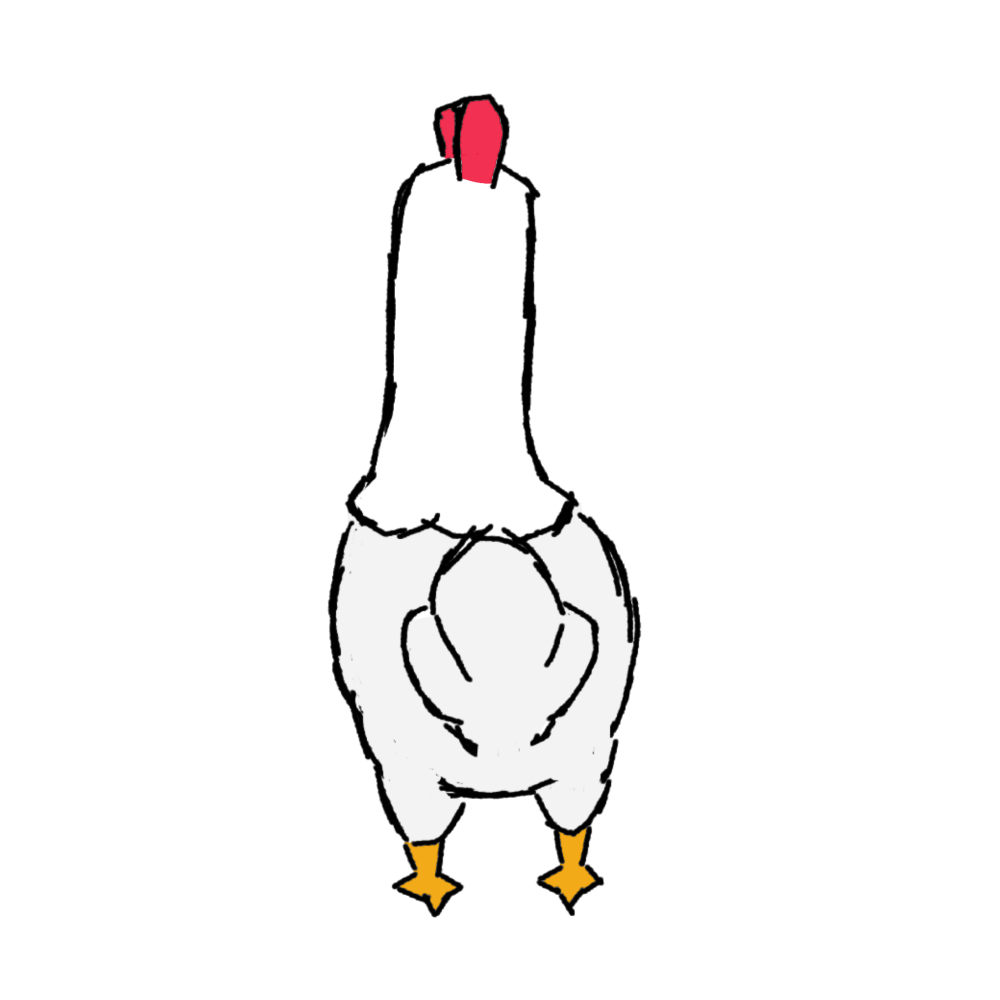
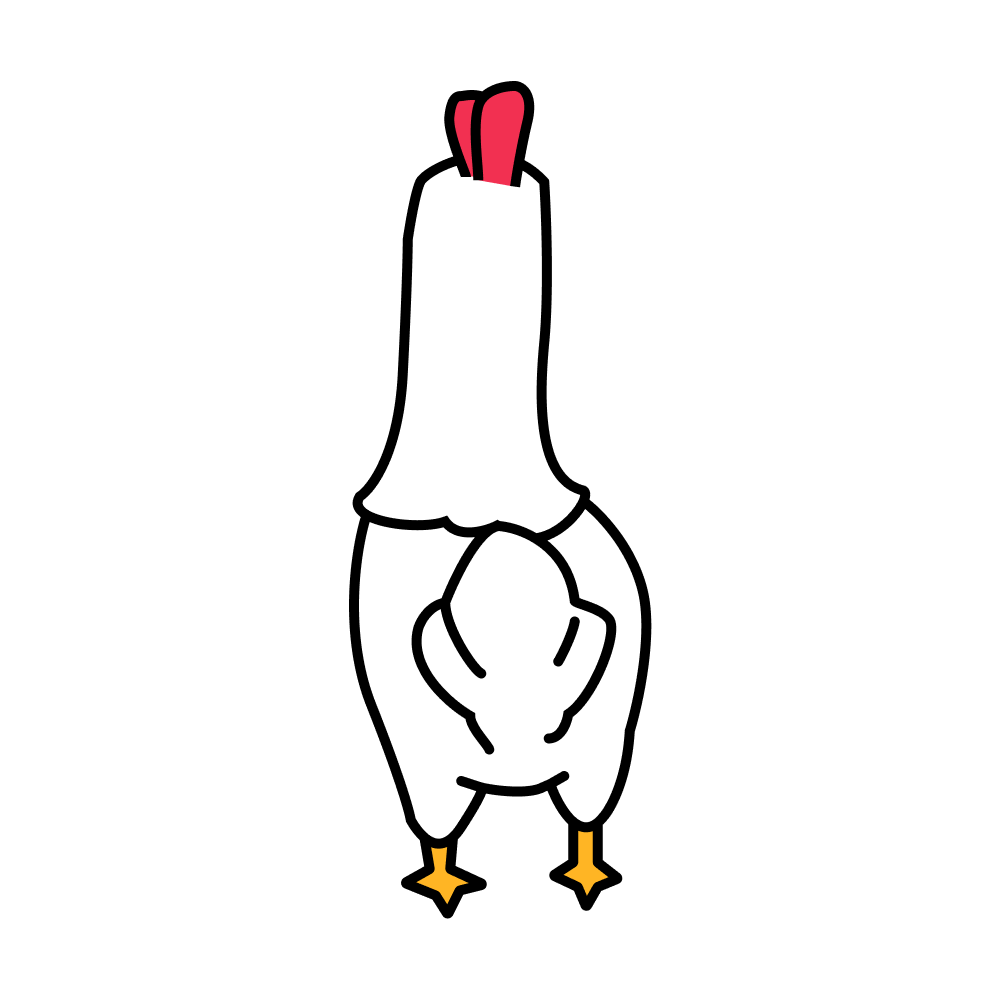
Chicken Sprites

Changed region(s): [[0.31, 0.062, 0.651, 0.93]]

diff --git a/src/lesson_kind/chickwalk.js b/src/lesson_kind/chickwalk.js
@@ -86,6 +86,8 @@ export const run = async (script, data, delay, w, sessionData) => {
     interpreter.addFunction('go_left', async (bID) => {
         let c = blockExist(data.lvlPos, currentPosX - 1, currentPosY)
 
+        data.chick.texture = data.chickFrames.L
+
         if (!c) {
             currentPosX--
             await moveChick(data.chick.x - data.cellSize, data.chick.y)
@@ -99,6 +101,8 @@ export const run = async (script, data, delay, w, sessionData) => {
     interpreter.addFunction('go_right', async (bID) => {
         let c = blockExist(data.lvlPos, currentPosX + 1, currentPosY)
         
+        data.chick.texture = data.chickFrames.R
+
         console.log(c)
         console.log(!c)
 
@@ -123,6 +127,8 @@ export const run = async (script, data, delay, w, sessionData) => {
     interpreter.addFunction('go_up', async (bID) => {
         let c = blockExist(data.lvlPos, currentPosX, currentPosY - 1)
 
+        data.chick.texture = data.chickFrames.T
+
         let block = w.getBlockById(bID)
 
         console.log(c)
@@ -139,6 +145,8 @@ export const run = async (script, data, delay, w, sessionData) => {
 
     interpreter.addFunction('go_down', async (bID) => {
         let c = blockExist(data.lvlPos, currentPosX, currentPosY + 1)
+
+        data.chick.texture = data.chickFrames.B
 
         if (!c) {
             currentPosY++
@@ -178,6 +186,8 @@ export const reset = (w, data) => {
         
     resetAllBlocks(w)
 
+    data.chick.texture = data.chickFrames.L
+
     for (const flag of data.flags) {
         anime.remove(flag)
 
@@ -197,6 +207,13 @@ export const init = async (e, data) => {
         background: '#57ae6a',
         resizeTo: e
     });
+
+    const chickFrames = {
+        "T": PIXI.Texture.from('/chickwalk_tiles/chick_B.png'),
+        "B": PIXI.Texture.from('/chickwalk_tiles/chick_T.png'),
+        "L": PIXI.Texture.from('/chickwalk_tiles/chick_L.png'),
+        "R": PIXI.Texture.from('/chickwalk_tiles/chick_R.png'),
+    }
 
     e.appendChild(app.view);
 
@@ -231,7 +248,7 @@ export const init = async (e, data) => {
         ground.zIndex = -1
 
         container.addChild(ground)
-
+        
         return ground
     }
 
@@ -321,6 +338,7 @@ export const init = async (e, data) => {
         lvlData: data,
         cellSize: cellSize,
         lvlPos: blockPos,
-        interpreter: null
+        interpreter: null,
+        chickFrames: chickFrames
     }
 }
